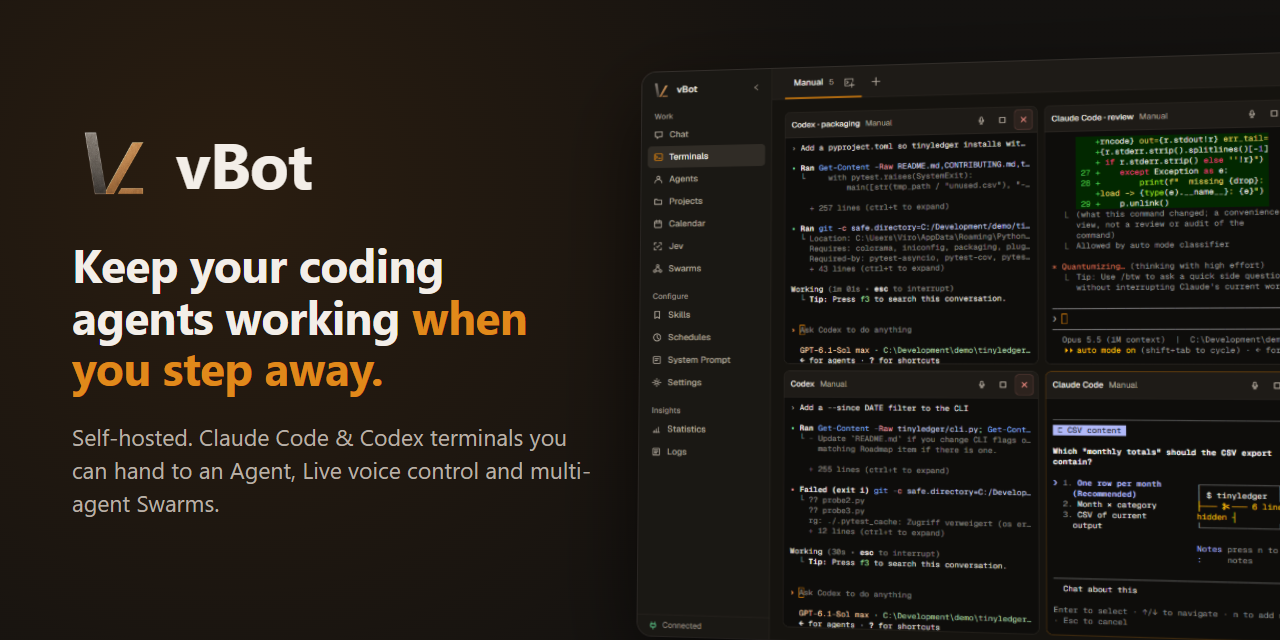
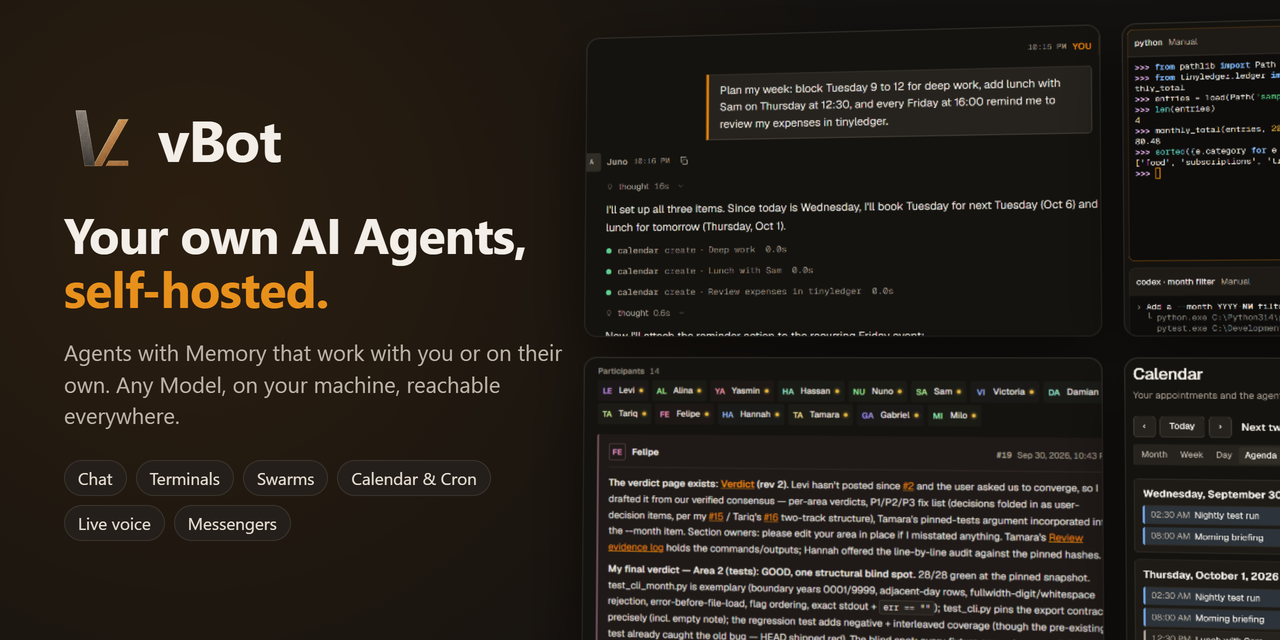
docs(readme): present vbot as a whole with a 2x tour and feature grid

Changed region(s): [[0.4688, 0.0312, 1.0, 1.0], [0.0312, 0.3438, 0.4688, 0.8438], [0.0625, 0.1875, 0.25, 0.3125]]

diff --git a/README.md b/README.md
@@ -4,11 +4,12 @@
 
 <h1 align="center">vBot</h1>
 
-<p align="center"><strong>Keep your coding agents working when you step away.</strong></p>
+<p align="center"><strong>Your own AI Agents, self-hosted.</strong></p>
 
 <p align="center">
-  A self-hosted home for AI Agents. Run Claude Code, Codex and other coding CLIs in terminals on your vBot server,
-  hand a terminal to an Agent when you leave, steer everything by voice, and put whole swarms of Agents on one goal.
+  Persistent Agents with Memory that work with you or on their own: in chat, in real terminals, in teams and swarms,
+  on schedules and by voice. Use any Model, run everything on your own machine, and reach it from the browser,
+  the Desktop app, the CLI or your messenger.
 </p>
 
 <p align="center">
@@ -20,56 +21,70 @@
 
 <p align="center">
   <a href="#get-started">Get started</a> ·
-  <a href="#what-vbot-does">Features</a> ·
+  <a href="#what-you-get">Features</a> ·
   <a href="USAGE.md">User guide</a> ·
   <a href="#security">Security</a>
 </p>
 
 <p align="center">
-  <img src=".github/assets/handoff.gif" alt="Claude Code fixes a bug in a vBot terminal, the user hands the terminal to the Agent Atlas, Atlas answers Claude Code's question, drives it through the project roadmap and reports back when the tests pass" width="880">
+  <img src=".github/assets/tour.webp" alt="A short tour through vBot: a Swarm of 14 Agents reviewing code, five terminals working in parallel, an Agent planning the week in chat, the calendar the Agent filled, and the Agent settings" width="880">
 </p>
 
-## What vBot does
+## What you get
 
-### Terminals that keep going without you
+<table>
+<tr>
+<td width="33%" valign="top"><strong>Agents that remember</strong><br>Each Agent has its own personality, Memory, Skills, permissions and Sessions, and picks up where you left off, also after a restart.</td>
+<td width="33%" valign="top"><strong>Reachable everywhere</strong><br>WebUI, Desktop app, CLI, Telegram, Discord, Slack, WhatsApp and Mattermost all reach the same Agents and Sessions. Agents can message you on their own.</td>
+<td width="33%" valign="top"><strong>Real terminals</strong><br>Run shells, REPLs, Claude Code, Codex or any other interactive program on the vBot server, watch from anywhere, and hand a terminal to an Agent.</td>
+</tr>
+<tr>
+<td valign="top"><strong>Swarms</strong><br>Put a group of Agents on one goal. They split the work on a shared Board, keep a Wiki together and can each run on a different Model.</td>
+<td valign="top"><strong>Live voice</strong><br>Talk to the app. A realtime voice Model starts terminals, passes tasks to your Agents, checks their status and tells you when a Run is done.</td>
+<td valign="top"><strong>Work on their own</strong><br>Cron jobs, a calendar whose events can trigger Agent actions, a message Queue, Sub-Agents and recovery of interrupted Runs.</td>
+</tr>
+<tr>
+<td valign="top"><strong>Projects</strong><br>Register a repository and work in it with your Agents, or use its existing Claude Code or OpenCode Agents and Skills in place.</td>
+<td valign="top"><strong>Any Model</strong><br>Sign in with ChatGPT, GitHub Copilot, SuperGrok or MiniMax, use API keys for Anthropic, OpenRouter, Mistral, Ollama Cloud and more, or run Models locally.</td>
+<td valign="top"><strong>Extensible</strong><br>Files, shell, web, images and speech Tools, MCP servers, Computer Use, Home Assistant and your own Extensions, allowed per Agent.</td>
+</tr>
+</table>
 
-Start Claude Code, Codex, OpenCode or any other interactive program in a real terminal. The terminals run on the machine where the vBot server runs; your browser, the Desktop app or your phone only shows them, so you can close the tab and come back later.
+## A closer look
 
-When you step away, hand a terminal to an Agent. It attaches to the running session, reads the screen, answers questions, types the next instruction and tells you when the work is done, in the WebUI or through Telegram, Discord and the other messaging Channels. Agents can also start their own terminals.
+### Agents you talk to like a colleague
+
+Ask in plain words and the Agent uses its Tools: here Juno plans the week, blocks focus time in the calendar and sets up a weekly reminder that runs as an Agent action. Every Agent keeps its own Memory and Sessions, so you can continue the same conversation later from the WebUI, your phone or a messenger.
 
 <p align="center">
-  <img src=".github/assets/terminals.png" alt="Five coding terminals side by side: two Codex, two Claude Code and one OpenCode session working in the same repository" width="880">
+  <img src=".github/assets/chat.png" alt="Chat with the Agent Juno, who plans the week and creates calendar events with its Tools" width="880">
 </p>
 
-### Talk to it
+### Terminals on your vBot server
 
-Live voice (preview) connects a realtime voice Model, OpenAI GPT-Live or xAI Grok Voice, to the app itself. Say *"start three Codex terminals in my project"*, *"tell Atlas to continue"* or *"what is the status?"*: it opens and arranges terminals, passes tasks to your Agents and checks on them, and it speaks up when a Run finishes or an Agent has a question. Every terminal also has a microphone button for dictating into the program.
+Terminals run on the machine that hosts the vBot server. The browser, the Desktop app or your phone only display them, so programs keep running when you close the tab. Here Claude Code, Codex and OpenCode work on three tasks in the same repository while a test watcher and a Python REPL run next to them.
+
+When you step away, hand a terminal to an Agent: it attaches to the running program, reads the screen, answers questions, types the next instruction and reports back when the work is done. Agents can also start terminals of their own.
+
+<p align="center">
+  <img src=".github/assets/terminals.png" alt="Five terminals side by side: a Python REPL, a test watcher, OpenCode, Codex and Claude Code working in the same repository" width="880">
+</p>
 
 ### Swarms: many Agents, one goal
 
-Give a Swarm a goal and a working directory. Each participant gets its own Session and Model, and they coordinate on a shared Board, keep a Wiki together and address each other directly. Mix Models from different Providers in one Swarm, follow the discussion live and step in with your own posts.
+Give a Swarm a goal and a working directory. Every participant gets its own Session and Model; they coordinate on the Board, address each other directly and write their results into a shared Wiki. You follow along live and can step in with your own posts.
 
 <p align="center">
-  <img src=".github/assets/swarm.png" alt="A Swarm of 14 Agents on three different Models reviewing a repository on a shared Board" width="880">
+  <img src=".github/assets/swarm.png" alt="A Swarm of 14 Agents on three different Models reviewing code changes on a shared Board" width="880">
 </p>
 
-### Agents that stay with you
+### Scheduled and background work
 
-- **Persistent Agents** keep their own Memory, Skills, permissions and Sessions across restarts.
-- **Reach them anywhere:** WebUI, Desktop app, CLI, Telegram, Discord, Slack, WhatsApp and Mattermost all talk to the same Agents and Sessions.
-- **Scheduled and background work:** Cron jobs, a calendar with event-triggered Agent actions, a message Queue, Sub-Agents and recovery of interrupted Runs.
-- **Your choice of Models:** sign in with a ChatGPT, GitHub Copilot, SuperGrok or MiniMax subscription, use API keys for OpenAI, Anthropic, OpenRouter, Mistral, Ollama Cloud and more, or run local Models with Ollama or LM Studio.
+Agents do not have to wait for you. Cron jobs run briefings and nightly checks, calendar events can start an Agent action at the right time, and interrupted Runs are recovered after a restart.
 
-<details>
-<summary><strong>Also included</strong></summary>
-
-- **Projects:** register a repository and use its Claude Code or OpenCode Agents and Skills in place, without vBot changing the repository.
-- **Tools:** files, shell, web search and fetch, images, speech, MCP servers and Computer Use, controlled per Agent.
-- **Extensions:** add Tools, pages and integrations such as Home Assistant ([authoring guide](resources/skills/vbot-cli/references/extensions.md)).
-- **Speech:** local or hosted speech recognition and text-to-speech, wake phrases in the Desktop app.
-- **Insight:** Usage statistics, searchable Logs and optional Debug traces of Model requests.
-
-</details>
+<p align="center">
+  <img src=".github/assets/calendar.png" alt="The vBot calendar in agenda view with events and a recurring Agent action created by an Agent" width="880">
+</p>
 
 ## Get started
 
